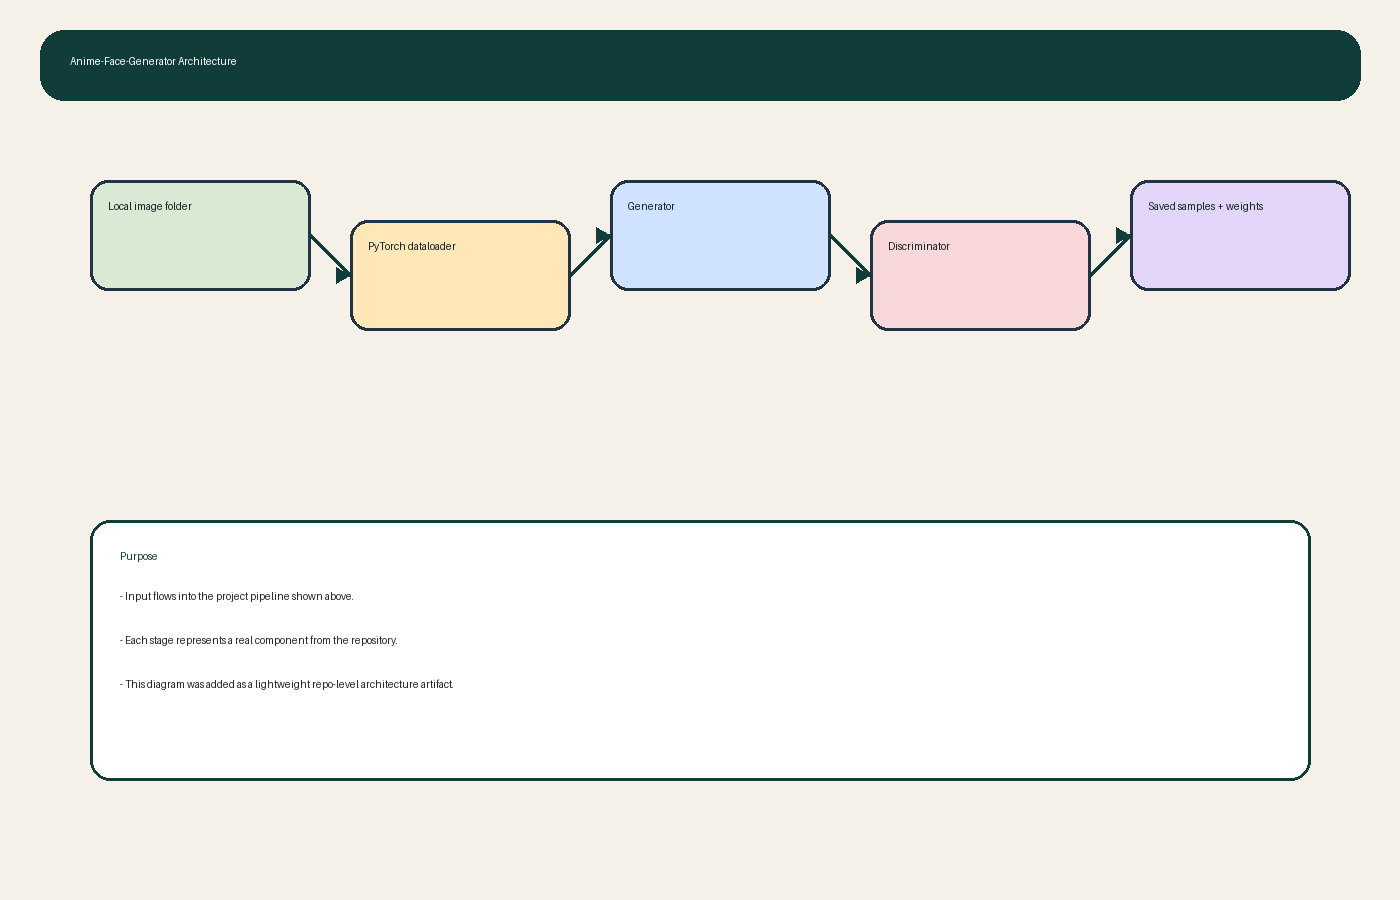
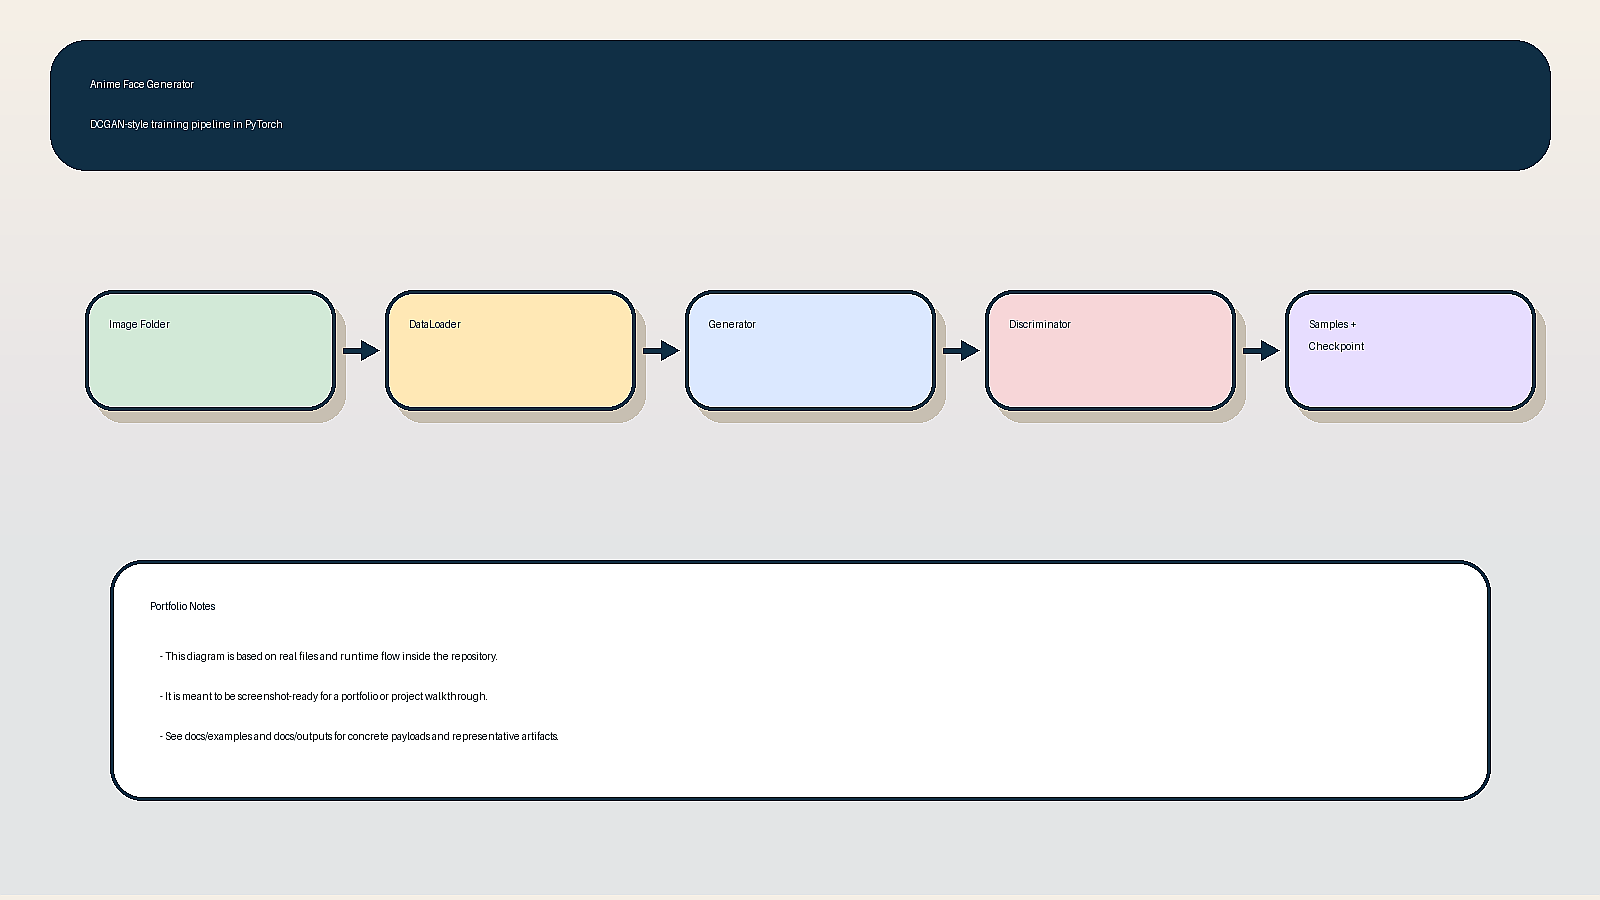
Polish architecture docs and add rich examples

Changed region(s): [[0.0307, 0.0311, 0.9829, 0.4978], [0.0614, 0.56, 0.9521, 0.9022]]

diff --git a/docs/sample_io.md b/docs/sample_io.md
@@ -1,14 +1,11 @@
 # Sample Inputs and Outputs
 
-## Sample input
-- A local image folder of anime face images referenced by the script
+## Example files
+- `examples/training_config.json`
+- `examples/output_artifacts.txt`
+- `outputs/training_log.txt`
 
-## Sample outputs
-- `fake_samples_epoch_1.png`
-- `fake_samples_epoch_2.png`
-- `generator.pth`
-
-## Sample flow
-```text
-Load images -> train GAN -> export epoch samples -> save generator weights
-```
+## What these show
+- the hyperparameter shape used by the training script
+- the expected generated artifacts after training
+- a representative GAN training log

diff --git a/README.md b/README.md
@@ -70,3 +70,5 @@ flowchart LR
 - [Architecture diagram](docs/architecture.png)
 - [Evaluation logs and outputs](docs/evaluation.md)
 - [Sample inputs and outputs](docs/sample_io.md)
+- [Rich example assets](docs/examples/)
+- [Representative outputs](docs/outputs/)
